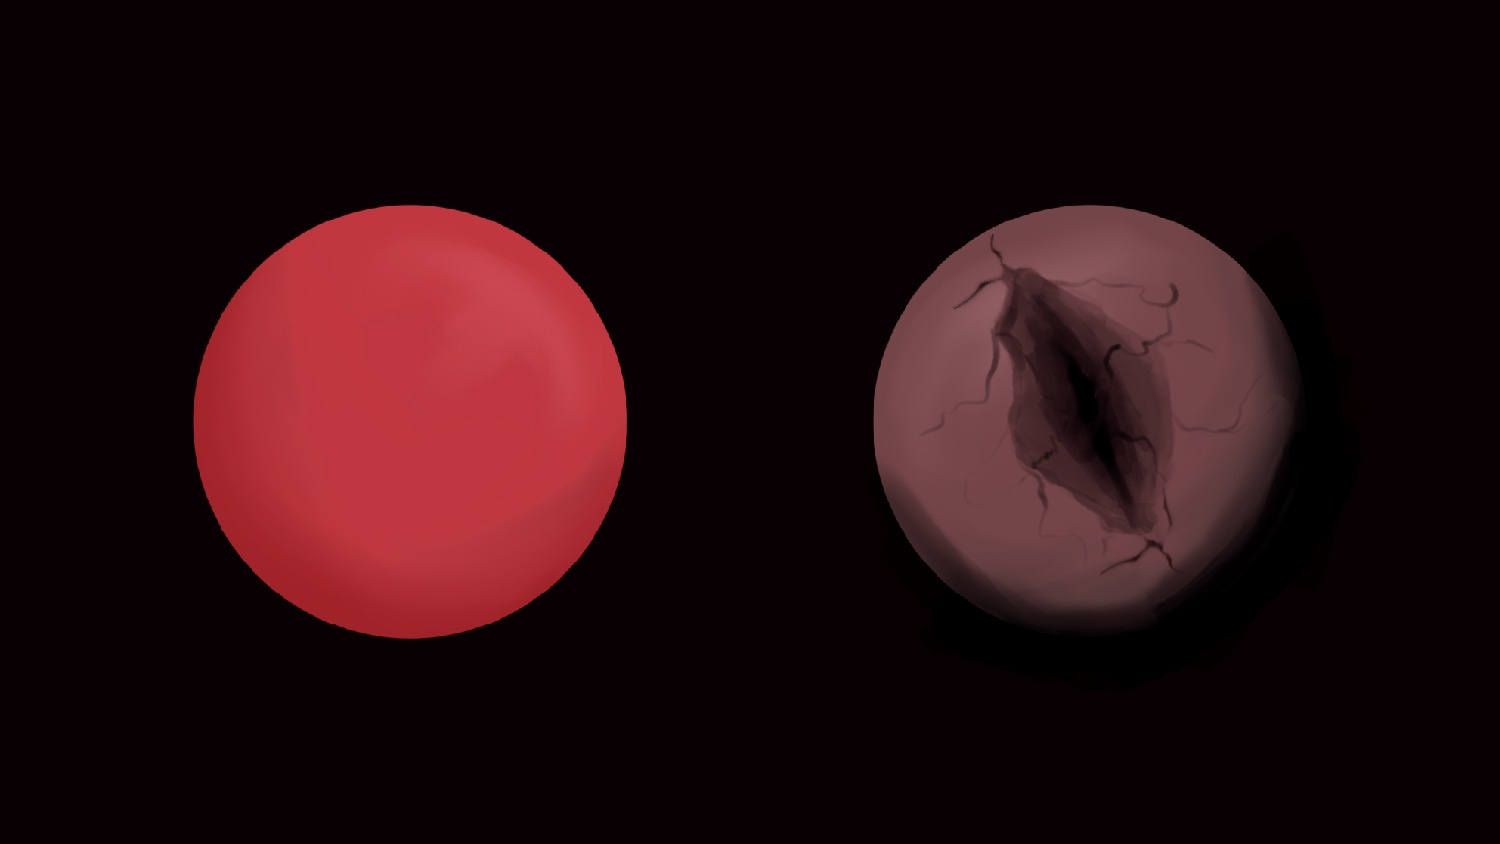
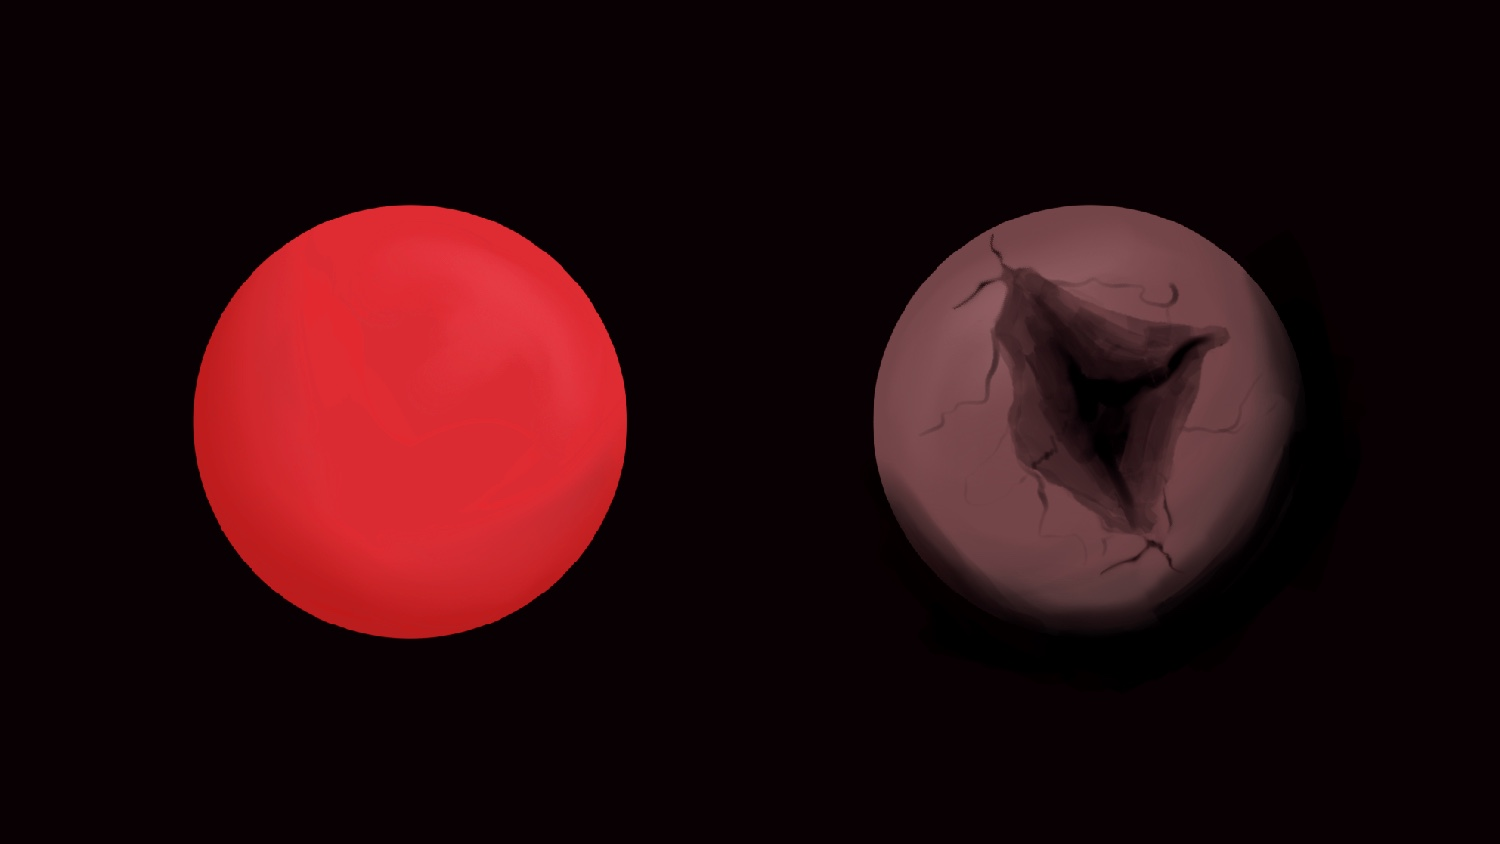
finalupdate

Changed region(s): [[0.1227, 0.2464, 0.4293, 0.7701], [0.736, 0.3697, 0.828, 0.5237]]

diff --git a/f_3.html b/f_3.html
@@ -11,7 +11,9 @@
 </div>
 
 
-<!-- ADD IMAGE HERE -->
+<div class="choice1">
+<img src="assets/fail3.jpg" alt="f_3img" style="width:500px;height:autopx;">
+</div>
 
 <div text-align:center;>
 <a href="end.html" target="_self" class="button">Next Day.</a>

diff --git a/f_5.html b/f_5.html
@@ -7,7 +7,10 @@
 <body>
 
 
-<!-- ADD IMAGE HERE -->
+<div class="choice1">
+<img src="assets/fail5.jpg" alt="f_5img" style="width:1200px;height:autopx;">
+</div>
+
 
 <div text-align:center;>
 <a href="end.html" target="_self" class="button">Move.</a>

diff --git a/f_4.html b/f_4.html
@@ -7,7 +7,9 @@
 <body>
 
 
-<!-- ADD IMAGE HERE -->
+<div class="choice1">
+<img src="assets/fail4.jpg" alt="f_4img" style="width:1200px;height:autopx;">
+</div>
 
 <div text-align:center;>
 <a href="end.html" target="_self" class="button">Move.</a>

diff --git a/end.html b/end.html
@@ -7,10 +7,13 @@
 <body>
 
 <div class="endtext">
-<p>Alone<p>
+<p>Solitude</p>
 </div>
 
-<!-- PUT IMAGE HERE -->
+
+<div class="choice1">
+<img src="assets/end.jpg" alt="endimg" style="width:900px;height:autopx;" >
+</div>
 
 </body>
 </html>
